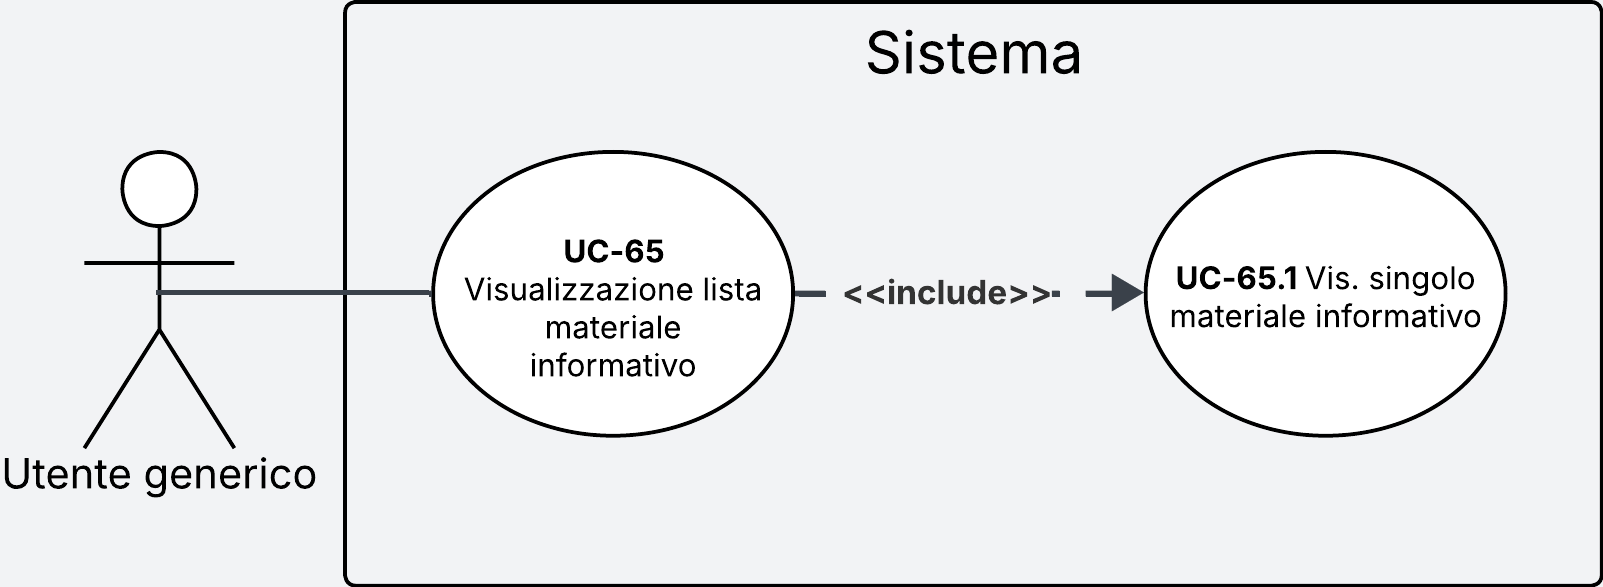
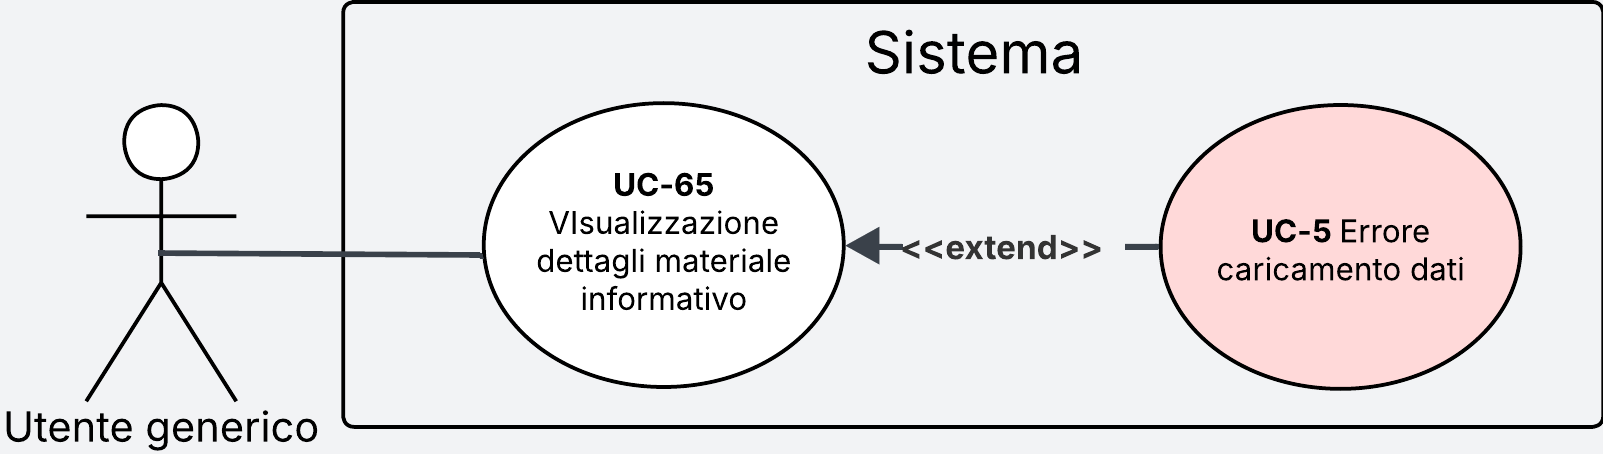
Sistemate le immagini mancanti

diff --git a/src/RTB/documenti_esterni/analisi_dei_requisiti/analisi_dei_requisiti.tex b/src/RTB/documenti_esterni/analisi_dei_requisiti/analisi_dei_requisiti.tex
@@ -2833,7 +2833,7 @@ Il diagramma riportato di seguito mostra anche ulteriori casi d'uso correlati (\
     \end{itemize}
     \item \textbf{Post-condizioni:}
     \begin{itemize}
-        \item Il sistema ha preso in carico la richiesta di invio del messaggio SOS.
+        \item Il sistema ha inviato il messaggio di SOS ai contatti fidati dell'utente.
     \end{itemize}
     \item \textbf{Scenario principale:} 
     \begin{itemize}
@@ -2844,7 +2844,7 @@ Il diagramma riportato di seguito mostra anche ulteriori casi d'uso correlati (\
     \item \textbf{Scenari secondari:} 
     \begin{itemize}
         \item Il sistema non è in grado di connettersi a internet. $\rightarrow$ \hyperref[sec:UC-45]{UC-45}
-        \item Il sistema non ha memorizzato nessun contatto fidato. $\rightarrow$ \hyperref[sec:UC-46]{UC-46}
+        \item L'utente non ha inserito nessun contatto fidato nella rete dei contatti fidati. $\rightarrow$ \hyperref[sec:UC-46]{UC-46}
     \end{itemize}
     \item \textbf{Estensioni:}
     \begin{itemize}
@@ -2860,8 +2860,8 @@ Il diagramma riportato di seguito mostra anche ulteriori casi d'uso correlati (\
     \item \textbf{Pre-condizioni:} 
     \begin{itemize}
         \item Il sistema è attivo.
-        \item Il sistema non ha accesso alla connessione internet.
-	    \item È in corso la richiesta di invio del messaggio SOS.
+	    \item L'attore ha richiesto l'invio del messaggio di SOS.
+	    \item Il sistema non ha accesso alla connessione internet.
     \end{itemize}	
 
     \item \textbf{Post-condizioni:}
@@ -2888,7 +2888,7 @@ Il diagramma riportato di seguito mostra anche ulteriori casi d'uso correlati (\
     \item \textbf{Pre-condizioni:}
     \begin{itemize}
         \item Il sistema è attivo.
-	    \item È in corso la richiesta di invio del messaggio SOS.
+	    \item L'attore ha richiesto l'invio del messaggio di SOS.
 	    \item La lista dei contatti fidati è vuota.
     \end{itemize}	
     \item \textbf{Post-condizioni:} 
@@ -2899,7 +2899,7 @@ Il diagramma riportato di seguito mostra anche ulteriori casi d'uso correlati (\
     \item \textbf{Scenario principale:} 
     \begin{itemize}
         \item Il sistema rileva che la lista dei contatti fidati è vuota
-        \item Il sistema notifica L'attore con un messaggio di errore
+        \item Il sistema notifica l'attore con un messaggio di errore
         \item Il sistema dà la possibilità all'attore di inviare un segnale acustico $\rightarrow$  \hyperref[sec:UC-47]{UC-47}
     \end{itemize}
     \item \textbf{Estensioni:}
@@ -2915,7 +2915,7 @@ Il diagramma riportato di seguito mostra anche ulteriori casi d'uso correlati (\
     \item \textbf{Pre-condizioni:}
     \begin{itemize}
         \item Il sistema è attivo.
-	    \item È in corso la richiesta di invio del messaggio SOS.
+	    \item L'attore ha richiesto l'invio del messaggio di SOS.
 	    \item Si è verificato un errore che ha impedito l'invio delle mail ai contatti fidati.
         \item L'attore ha selezionato l'opzione di invio del segnale acustico.
     \end{itemize}	
@@ -2928,7 +2928,7 @@ Il diagramma riportato di seguito mostra anche ulteriori casi d'uso correlati (\
         \item L'attore seleziona l'opzione per inviare il segnale acustico.
         \item Il sistema invia il segnale acustico indipendente dalle impostazioni di volume del dispositivo.
     \end{itemize}
-    \item \textbf{Trigger:} L'attore seleziona l'opzione per inviare il segnale acustico.
+    \item \textbf{Trigger:} L'attore vuole avviare il segnale acustico data l'impossibilità di inviare il messaggio di SOS.
 \end{itemize}
 
 % ========================== UC-I: I - DETECTIVE DELLE RELAZIONI  ==============================
@@ -3111,6 +3111,7 @@ Il diagramma riportato di seguito mostra anche ulteriori casi d'uso correlati (\
         \item Il sistema rileva un errore nel cambio del contesto
         \item Il sistema mostra un messaggio di errore
         \item Il sistema mantiene il contesto precedente
+        \item Il sistema permette all'attore di ritentare il cambio di contesto
     \end{itemize}
     \item \textbf{Trigger:} L'attore vuole cambiare il contesto del chatbot
 \end{itemize}
@@ -3159,12 +3160,11 @@ Il diagramma riportato di seguito mostra anche ulteriori casi d'uso correlati (\
     \end{itemize}
     \item \textbf{Post-condizioni:} 
     \begin{itemize}
-        \item La chat selezionata e i relativi dati vengono rimossi dal sistema
+        \item La chat selezionata e i relativi dati vengono rimossi dal sistema e non sono più visibili
     \end{itemize}
     \item \textbf{Scenario principale:} 
     \begin{itemize}
-        \item L'attore attiva la modalità di gestione/modifica della cronologia
-        \item L'attore seleziona la chat che desidera rimuovere
+        \item L'attore seleziona la voce apposita per eliminare una chat dalla cronologia delle chat
         \item L'attore conferma l'intenzione di eliminare la chat $\rightarrow$ \hyperref[subsec:UC-55.1]{UC-55.1}
         \item Il sistema elimina la chat e aggiorna la lista della cronologia
     \end{itemize}
@@ -3197,8 +3197,8 @@ Il diagramma riportato di seguito mostra anche ulteriori casi d'uso correlati (\
 
 \subsubsection{UC-56 - Visualizzazione contenuto chat} \label{subsec:UC-56}
 \begin{tcolorbox}[colback=gray!10,colframe=gray!50,title=Nota]
-{\small Il caso d'uso \hyperref[subsec:UC-56]{UC-56} include il caso d'uso \hyperref[subsec:UC-56.1]{UC-56.1} e viene esteso da \hyperref[subsec:UC-56.2]{UC-56.2}.
-Il diagramma riportato di seguito mostra anche ulteriori casi d'uso correlati (\hyperref[subsec:UC-56.1.1]{UC-56.1.1} e \hyperref[subsec:UC-56.1.2]{UC-56.1.2}), la cui descrizione dettagliata è riportata nelle sezioni successive del documento.}
+{\small Il seguente grafico rappresenta il caso d'uso \hyperref[subsec:UC-56]{UC-56} che include diversi casi d'uso quali \hyperref[subsec:UC-56.1]{UC-56.1}, \hyperref[subsec:UC-56.1.1]{UC-56.1.1} e \hyperref[subsec:UC-56.1.2]{UC-56.1.2} la cui descrizione dettagliata è riportata nelle sezioni successive del documento..
+Inoltre mostra un caso d'uso d'errore \hyperref[sec:UC-5]{UC-5} la quale descrizione è situata precedentemente nel documento. }
 \end{tcolorbox}
 \begin{figure}[H]
     \centering
@@ -3224,7 +3224,7 @@ Il diagramma riportato di seguito mostra anche ulteriori casi d'uso correlati (\
     \end{itemize}
     \item \textbf{Scenario secondario:} 
     \begin{itemize}
-        \item Errore nel caricamento del contenuto della chat $\rightarrow$ \hyperref[sec:UC-5]{UC-5}
+        \item Si verifica un errore nel caricamento del contenuto della chat $\rightarrow$ \hyperref[sec:UC-5]{UC-5}
     \end{itemize}
     \item \textbf{Inclusioni:} 
     \begin{itemize}
@@ -3593,7 +3593,7 @@ Il diagramma riportato di seguito mostra anche ulteriori casi d'uso correlati (\
     \end{itemize}
     \item \textbf{Scenario secondario:} 
     \begin{itemize}
-         \item Errore nel caricamento dei dati $\rightarrow$ \hyperref[sec:UC-5]{UC-5}
+         \item Si verifica un errore nel caricamento dei dati dal database $\rightarrow$ \hyperref[sec:UC-5]{UC-5}
     \end{itemize}
     \item \textbf{Estensioni:}
     \begin{itemize}
@@ -3702,7 +3702,7 @@ Il diagramma riportato di seguito mostra anche ulteriori casi d'uso correlati (\
 \subsubsection{UC-63 - Composizione automatica numero contatto} \label{sec:UC-63}
 \begin{figure}[H]
     \centering
-    \includegraphics[width=1\textwidth]{use_case/UC-64-coraggio.png}
+    \includegraphics[width=1\textwidth]{use_case/UC-63-coraggio.png}
     \caption{Diagramma del caso d'uso UC-63}
     \label{fig:UC-63}
 \end{figure}
@@ -3729,9 +3729,9 @@ Il diagramma riportato di seguito mostra anche ulteriori casi d'uso correlati (\
 \subsubsection{UC-64 - Visualizzazione lista materiale informativo} \label{sec:UC-64}
 \begin{figure}[H]
     \centering
-    \includegraphics[width=1\textwidth]{use_case/UC-65-coraggio.png}
+    \includegraphics[width=1\textwidth]{use_case/UC-64-coraggio.png}
     \caption{Diagramma del caso d'uso UC-64}
-    \label{fig:UC-65}
+    \label{fig:UC-64}
 \end{figure}
 \begin{itemize}
     \item \textbf{Attore principale:} \term{Utente} Generico
@@ -3751,9 +3751,17 @@ Il diagramma riportato di seguito mostra anche ulteriori casi d'uso correlati (\
         \item L'attore può visualizzare singolarmente ogni materiale nella lista $\rightarrow$ \hyperref[subsec:UC-64.1]{UC-64.1}
         \item L'attore può scorrere la lista per trovare il contenuto di interesse
     \end{itemize}
+    \item \textbf{Scenario secondario:} 
+    \begin{itemize}
+        \item Si verifica un errore nel caricamento dei dati dal database $\rightarrow$ \hyperref[sec:UC-5]{UC-5}
+    \end{itemize}
     \item \textbf{Inclusioni:}
      \begin{itemize}
          \item \hyperref[subsec:UC-64.1]{UC-64.1}
+     \end{itemize}
+     \item \textbf{Estensioni:}
+     \begin{itemize}
+         \item \hyperref[sec:UC-5]{UC-5}
      \end{itemize}
     \item \textbf{Trigger:} L'attore vuole consultare risorse educative o di supporto
 \end{itemize}
@@ -3781,7 +3789,7 @@ Il diagramma riportato di seguito mostra anche ulteriori casi d'uso correlati (\
 \subsubsection{UC-65 - Visualizzazione dettagli materiale informativo} \label{sec:UC-65}
 \begin{figure}[H]
     \centering
-    \includegraphics[width=1\textwidth]{use_case/UC-66-coraggio.png}
+    \includegraphics[width=1\textwidth]{use_case/UC-65-coraggio.png}
     \caption{Diagramma del caso d'uso UC-65}
     \label{fig:UC-65}
 \end{figure}
@@ -3816,8 +3824,8 @@ Il diagramma riportato di seguito mostra anche ulteriori casi d'uso correlati (\
 \subsubsection{UC-66 - Visualizzazione mappa} \label{sec:UC-66}
 \begin{figure}[H]
     \centering
-    \includegraphics[width=1\textwidth]{use_case/UC-67-68-coraggio.png}
-    \caption{Diagramma del caso d'uso UC-66}
+    \includegraphics[width=1\textwidth]{use_case/UC-66-67-coraggio.png}
+    \caption{Diagramma dei casi d'uso UC-66 e UC-67}
     \label{fig:UC-66}
 \end{figure}
 \begin{itemize}
